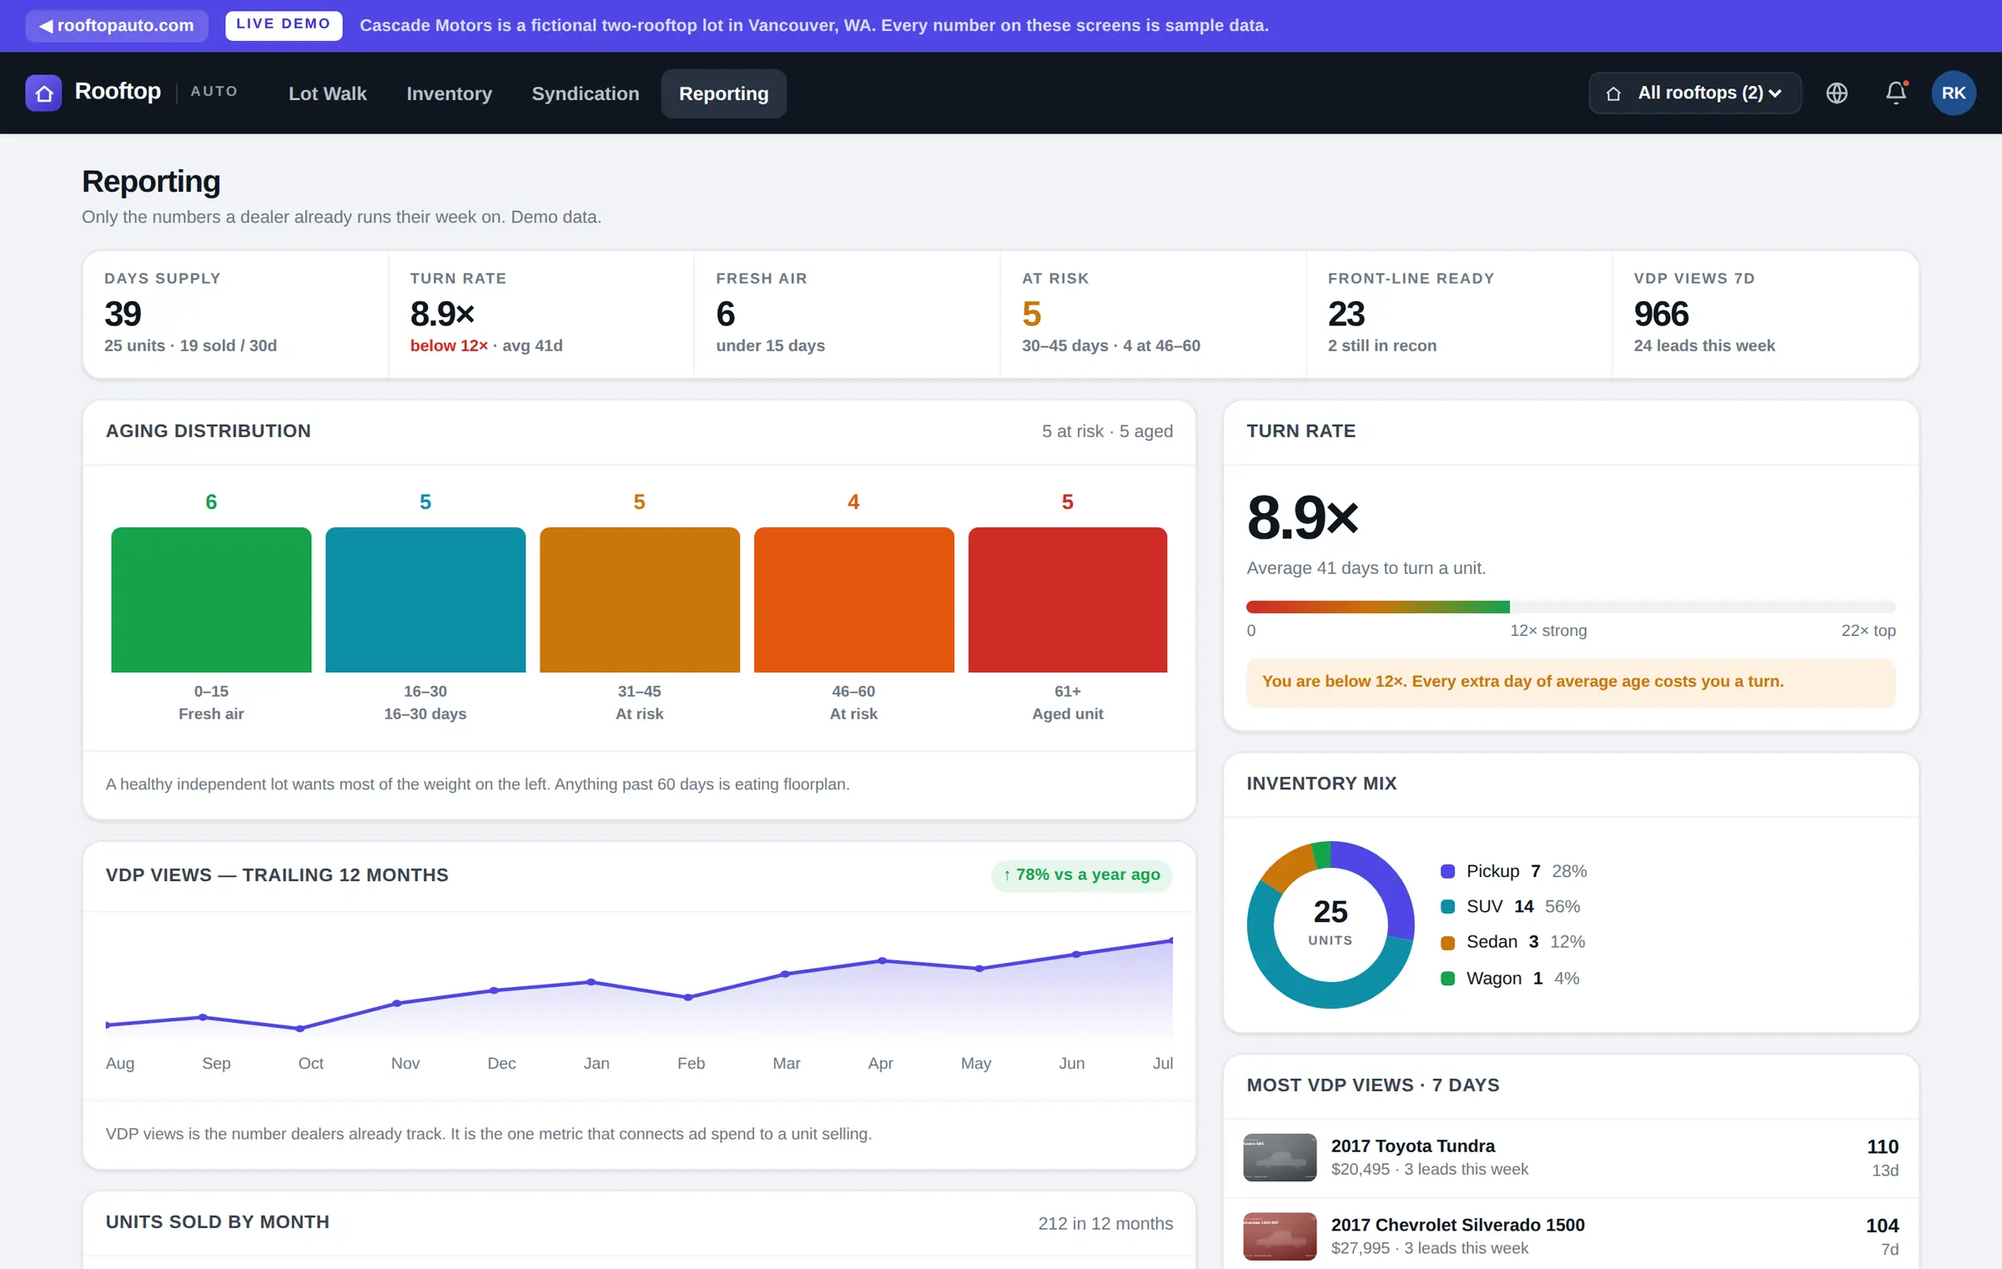
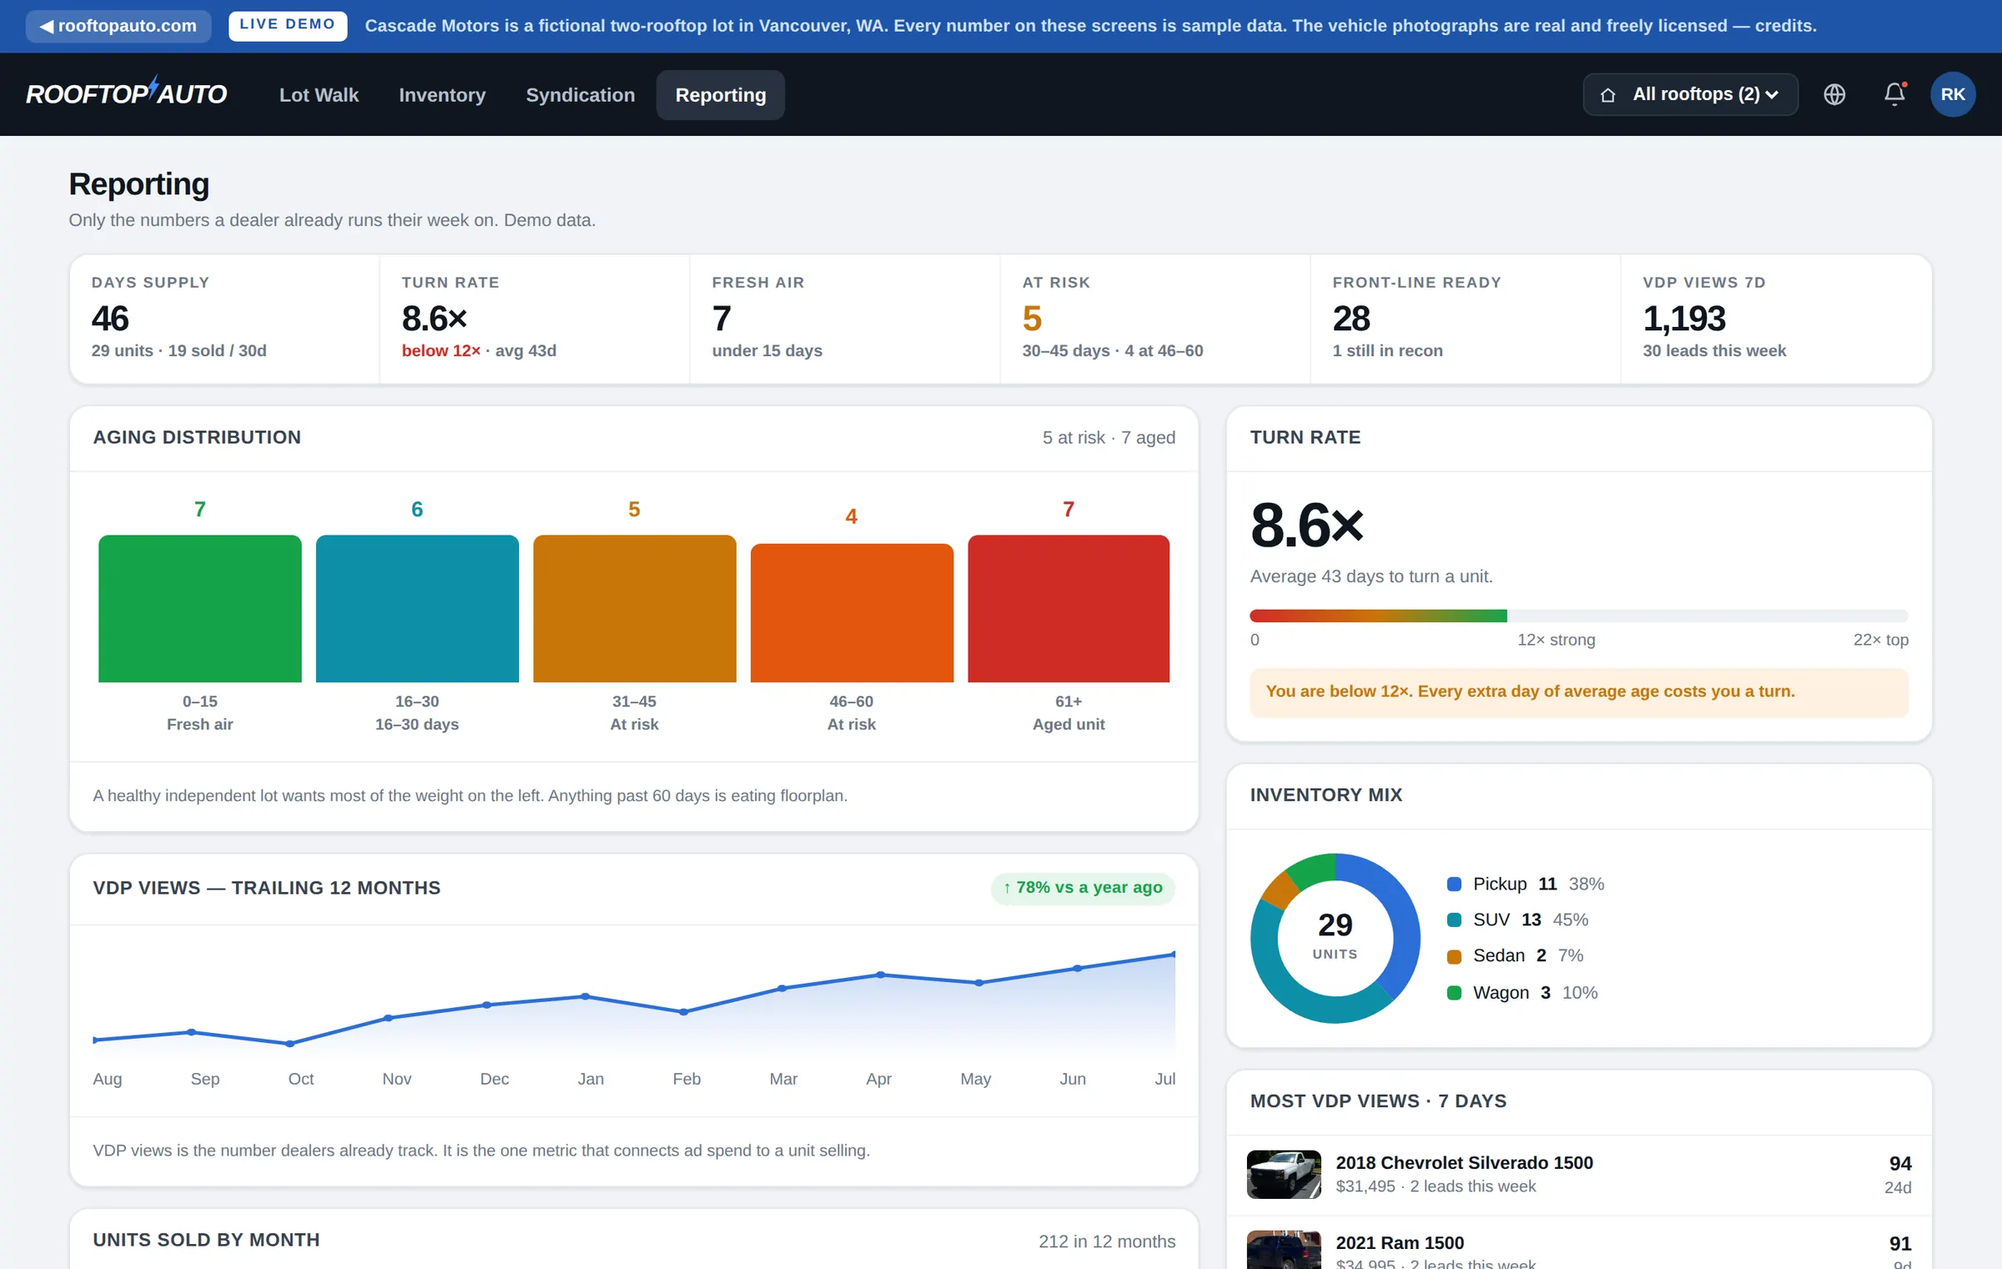
demo: rooftop blue palette, wordmark lockup, re-shot marketing screenshots

diff --git a/mock/rooftop-demo.html b/mock/rooftop-demo.html
@@ -4,6 +4,9 @@
 <meta name="viewport" content="width=device-width,initial-scale=1">
 <title>Rooftop — dealer demo · Cascade Motors</title>
 <meta name="description" content="Rooftop Auto — inventory, merchandising, syndication, website and reporting for independent used car lots.">
+<link rel="preconnect" href="https://fonts.googleapis.com">
+<link rel="preconnect" href="https://fonts.gstatic.com" crossorigin>
+<link href="https://fonts.googleapis.com/css2?family=Archivo:ital,wght@1,900&display=swap" rel="stylesheet">
 <style>/* ===== Rooftop design tokens =====
    Charcoal + indigo. Deliberately outside the aging color ramp
    (green -> cyan -> amber -> orange -> red) so brand never
@@ -12,7 +15,7 @@
   --ink:#0f1620; --ink2:#39434f; --ink3:#6d7886; --ink4:#9aa4b1;
   --line:#e3e7ec; --line2:#eef1f4;
   --bg:#f1f3f6; --card:#fff; --card2:#f8fAfc;
-  --brand:#4f46e5; --brand2:#6d64f0; --brand-dk:#3b32c9; --brand-wash:#eef0fe;
+  --brand:#2C6FD8; --brand2:#3D8BFF; --brand-dk:#1F55A8; --brand-wash:#E9F2FF;
 
   --b0:#15a34a; --b0w:#e6f6ec;   /* 0-15  fresh air   */
   --b1:#0e8fa8; --b1w:#e3f4f8;   /* 16-30             */
@@ -25,6 +28,7 @@
   --sh:0 1px 2px rgba(16,24,40,.05),0 1px 3px rgba(16,24,40,.07);
   --sh2:0 4px 16px rgba(16,24,40,.09),0 1px 3px rgba(16,24,40,.06);
   --ff:-apple-system,BlinkMacSystemFont,"Segoe UI",Inter,Roboto,Helvetica,Arial,sans-serif;
+  --fh:"Archivo",-apple-system,BlinkMacSystemFont,"Segoe UI",Inter,Roboto,Helvetica,Arial,sans-serif;
   --fm:ui-monospace,SFMono-Regular,"SF Mono",Menlo,Consolas,monospace;
 }
 *{box-sizing:border-box}
@@ -40,7 +44,9 @@ input,select,textarea{font:inherit;color:inherit}
 /* ===== chrome ===== */
 .topbar{position:sticky;top:0;z-index:60;height:58px;background:var(--ink);
   display:flex;align-items:center;gap:8px;padding:0 18px;color:#fff}
-.brand{display:flex;align-items:center;gap:9px;font-weight:800;letter-spacing:-.3px;font-size:16.5px;margin-right:14px}
+.brand{display:flex;align-items:center;font-family:var(--fh);font-style:italic;font-weight:900;letter-spacing:-.5px;font-size:18px;line-height:1;white-space:nowrap;margin-right:16px}
+.brand i{position:relative;display:inline-block;width:.363em;height:0;vertical-align:baseline;font-style:normal}
+.brand i svg{position:absolute;left:0;bottom:-.218em;width:.476em;height:1.089em;fill:#3D8BFF;overflow:visible}
 .brandmark{width:26px;height:26px;border-radius:7px;background:linear-gradient(140deg,var(--brand2),var(--brand-dk));
   display:grid;place-items:center;flex:0 0 auto}
 .brandmark svg{width:15px;height:15px}
@@ -323,12 +329,12 @@ select.sel{background:#fff;border:1px solid var(--line);border-radius:9px;paddin
 .spark{width:100%;height:78px;display:block}
 
 /* ===== demo ribbon (only present in the hosted demo build) ===== */
-.ribbon{display:flex;align-items:center;gap:12px;flex-wrap:wrap;background:#4f46e5;color:#fff;
+.ribbon{display:flex;align-items:center;gap:12px;flex-wrap:wrap;background:#1F55A8;color:#fff;
   padding:7px 18px;font-size:12px;font-weight:600;letter-spacing:.1px}
 .rb-back{font-weight:800;padding:3px 10px;border-radius:7px;background:rgba(255,255,255,.16);white-space:nowrap}
 .rb-back:hover{background:rgba(255,255,255,.28)}
-.rb-tag{font-weight:900;font-size:10px;letter-spacing:1.4px;padding:3px 8px;border-radius:5px;background:#fff;color:#3b32c9}
-.rb-txt{color:#dcdafc}
+.rb-tag{font-weight:900;font-size:10px;letter-spacing:1.4px;padding:3px 8px;border-radius:5px;background:#fff;color:#1F55A8}
+.rb-txt{color:#cfe0f7}
 @media(max-width:640px){.rb-txt{display:none}}
 
 /* ===== narrow screens =====
@@ -337,8 +343,7 @@ select.sel{background:#fff;border:1px solid var(--line);border-radius:9px;paddin
    sliding sideways, which is what the top bar was causing. */
 @media(max-width:760px){
   .topbar{height:auto;flex-wrap:wrap;padding:8px 12px;gap:7px;row-gap:4px}
-  .brand{margin-right:4px;font-size:15px}
-  .brand small{display:none}
+  .brand{margin-right:6px;font-size:15.5px}
   .nav{order:5;width:100%;overflow-x:auto;padding-bottom:2px;-webkit-overflow-scrolling:touch}
   .nav::-webkit-scrollbar{display:none}
   .nav a{white-space:nowrap;font-size:13px;padding:6px 10px}
@@ -814,7 +819,7 @@ function topbar() {
   const r = state.route;
   const on = (p) => r.startsWith(p) ? 'on' : '';
   return `<div class="topbar">
-    <div class="brand"><span class="brandmark">${MARK}</span>Rooftop<small>AUTO</small></div>
+    <div class="brand">ROOFTOP<i><svg viewBox="323.4 -54 29.5 67.5" aria-hidden="true"><path d="M349.1 -54 340.9 -29 352.9 -28.4 326 13.5 334.6 -15.5 323.4 -16.1Z"/></svg></i>AUTO</div>
     <nav class="nav">
       <a href="#/lotwalk" class="${on('#/lotwalk')}">Lot Walk</a>
       <a href="#/inventory" class="${on('#/inventory')}">Inventory</a>
@@ -1377,7 +1382,7 @@ function viewReporting() {
   const dist = BUCKETS.map(b => ({ b, n: inv.filter(v => bucketOf(v.daysInStock).id === b.id).length }));
   const maxN = Math.max(...dist.map(d => d.n), 1);
   const mix = ['Pickup', 'SUV', 'Sedan', 'Wagon'].map((k, i) => ({
-    k, n: inv.filter(v => v.body === k).length, c: ['#4f46e5', '#0e8fa8', '#c9760a', '#15a34a'][i] }));
+    k, n: inv.filter(v => v.body === k).length, c: ['#2C6FD8', '#0e8fa8', '#c9760a', '#15a34a'][i] }));
   const total = mix.reduce((a, x) => a + x.n, 0) || 1;
   const top = [...inv].sort((a, b) => b.vdpViews7 - a.vdpViews7).slice(0, 6);
   const MONTHS = ['Aug','Sep','Oct','Nov','Dec','Jan','Feb','Mar','Apr','May','Jun','Jul'];
@@ -1502,7 +1507,7 @@ function storeHeader() {
     <span>📍 Two locations in Vancouver, WA</span>
     <span>·</span><span>Fourth Plain</span><span>·</span><span>Orchards</span>
     <div style="flex:1"></div>
-    <a href="#/lotwalk" style="color:#8ea0ff;font-weight:700">← back to Rooftop admin</a>
+    <a href="#/lotwalk" style="color:#8fbcff;font-weight:700">← back to Rooftop admin</a>
   </div></div></header>`;
 }
 

diff --git a/site/demo/index.html b/site/demo/index.html
@@ -4,6 +4,9 @@
 <meta name="viewport" content="width=device-width,initial-scale=1">
 <title>Rooftop — dealer demo · Cascade Motors</title>
 <meta name="description" content="Rooftop Auto — inventory, merchandising, syndication, website and reporting for independent used car lots.">
+<link rel="preconnect" href="https://fonts.googleapis.com">
+<link rel="preconnect" href="https://fonts.gstatic.com" crossorigin>
+<link href="https://fonts.googleapis.com/css2?family=Archivo:ital,wght@1,900&display=swap" rel="stylesheet">
 <style>/* ===== Rooftop design tokens =====
    Charcoal + indigo. Deliberately outside the aging color ramp
    (green -> cyan -> amber -> orange -> red) so brand never
@@ -12,7 +15,7 @@
   --ink:#0f1620; --ink2:#39434f; --ink3:#6d7886; --ink4:#9aa4b1;
   --line:#e3e7ec; --line2:#eef1f4;
   --bg:#f1f3f6; --card:#fff; --card2:#f8fAfc;
-  --brand:#4f46e5; --brand2:#6d64f0; --brand-dk:#3b32c9; --brand-wash:#eef0fe;
+  --brand:#2C6FD8; --brand2:#3D8BFF; --brand-dk:#1F55A8; --brand-wash:#E9F2FF;
 
   --b0:#15a34a; --b0w:#e6f6ec;   /* 0-15  fresh air   */
   --b1:#0e8fa8; --b1w:#e3f4f8;   /* 16-30             */
@@ -25,6 +28,7 @@
   --sh:0 1px 2px rgba(16,24,40,.05),0 1px 3px rgba(16,24,40,.07);
   --sh2:0 4px 16px rgba(16,24,40,.09),0 1px 3px rgba(16,24,40,.06);
   --ff:-apple-system,BlinkMacSystemFont,"Segoe UI",Inter,Roboto,Helvetica,Arial,sans-serif;
+  --fh:"Archivo",-apple-system,BlinkMacSystemFont,"Segoe UI",Inter,Roboto,Helvetica,Arial,sans-serif;
   --fm:ui-monospace,SFMono-Regular,"SF Mono",Menlo,Consolas,monospace;
 }
 *{box-sizing:border-box}
@@ -40,7 +44,9 @@ input,select,textarea{font:inherit;color:inherit}
 /* ===== chrome ===== */
 .topbar{position:sticky;top:0;z-index:60;height:58px;background:var(--ink);
   display:flex;align-items:center;gap:8px;padding:0 18px;color:#fff}
-.brand{display:flex;align-items:center;gap:9px;font-weight:800;letter-spacing:-.3px;font-size:16.5px;margin-right:14px}
+.brand{display:flex;align-items:center;font-family:var(--fh);font-style:italic;font-weight:900;letter-spacing:-.5px;font-size:18px;line-height:1;white-space:nowrap;margin-right:16px}
+.brand i{position:relative;display:inline-block;width:.363em;height:0;vertical-align:baseline;font-style:normal}
+.brand i svg{position:absolute;left:0;bottom:-.218em;width:.476em;height:1.089em;fill:#3D8BFF;overflow:visible}
 .brandmark{width:26px;height:26px;border-radius:7px;background:linear-gradient(140deg,var(--brand2),var(--brand-dk));
   display:grid;place-items:center;flex:0 0 auto}
 .brandmark svg{width:15px;height:15px}
@@ -323,12 +329,12 @@ select.sel{background:#fff;border:1px solid var(--line);border-radius:9px;paddin
 .spark{width:100%;height:78px;display:block}
 
 /* ===== demo ribbon (only present in the hosted demo build) ===== */
-.ribbon{display:flex;align-items:center;gap:12px;flex-wrap:wrap;background:#4f46e5;color:#fff;
+.ribbon{display:flex;align-items:center;gap:12px;flex-wrap:wrap;background:#1F55A8;color:#fff;
   padding:7px 18px;font-size:12px;font-weight:600;letter-spacing:.1px}
 .rb-back{font-weight:800;padding:3px 10px;border-radius:7px;background:rgba(255,255,255,.16);white-space:nowrap}
 .rb-back:hover{background:rgba(255,255,255,.28)}
-.rb-tag{font-weight:900;font-size:10px;letter-spacing:1.4px;padding:3px 8px;border-radius:5px;background:#fff;color:#3b32c9}
-.rb-txt{color:#dcdafc}
+.rb-tag{font-weight:900;font-size:10px;letter-spacing:1.4px;padding:3px 8px;border-radius:5px;background:#fff;color:#1F55A8}
+.rb-txt{color:#cfe0f7}
 @media(max-width:640px){.rb-txt{display:none}}
 
 /* ===== narrow screens =====
@@ -337,8 +343,7 @@ select.sel{background:#fff;border:1px solid var(--line);border-radius:9px;paddin
    sliding sideways, which is what the top bar was causing. */
 @media(max-width:760px){
   .topbar{height:auto;flex-wrap:wrap;padding:8px 12px;gap:7px;row-gap:4px}
-  .brand{margin-right:4px;font-size:15px}
-  .brand small{display:none}
+  .brand{margin-right:6px;font-size:15.5px}
   .nav{order:5;width:100%;overflow-x:auto;padding-bottom:2px;-webkit-overflow-scrolling:touch}
   .nav::-webkit-scrollbar{display:none}
   .nav a{white-space:nowrap;font-size:13px;padding:6px 10px}
@@ -814,7 +819,7 @@ function topbar() {
   const r = state.route;
   const on = (p) => r.startsWith(p) ? 'on' : '';
   return `<div class="topbar">
-    <div class="brand"><span class="brandmark">${MARK}</span>Rooftop<small>AUTO</small></div>
+    <div class="brand">ROOFTOP<i><svg viewBox="323.4 -54 29.5 67.5" aria-hidden="true"><path d="M349.1 -54 340.9 -29 352.9 -28.4 326 13.5 334.6 -15.5 323.4 -16.1Z"/></svg></i>AUTO</div>
     <nav class="nav">
       <a href="#/lotwalk" class="${on('#/lotwalk')}">Lot Walk</a>
       <a href="#/inventory" class="${on('#/inventory')}">Inventory</a>
@@ -1377,7 +1382,7 @@ function viewReporting() {
   const dist = BUCKETS.map(b => ({ b, n: inv.filter(v => bucketOf(v.daysInStock).id === b.id).length }));
   const maxN = Math.max(...dist.map(d => d.n), 1);
   const mix = ['Pickup', 'SUV', 'Sedan', 'Wagon'].map((k, i) => ({
-    k, n: inv.filter(v => v.body === k).length, c: ['#4f46e5', '#0e8fa8', '#c9760a', '#15a34a'][i] }));
+    k, n: inv.filter(v => v.body === k).length, c: ['#2C6FD8', '#0e8fa8', '#c9760a', '#15a34a'][i] }));
   const total = mix.reduce((a, x) => a + x.n, 0) || 1;
   const top = [...inv].sort((a, b) => b.vdpViews7 - a.vdpViews7).slice(0, 6);
   const MONTHS = ['Aug','Sep','Oct','Nov','Dec','Jan','Feb','Mar','Apr','May','Jun','Jul'];
@@ -1502,7 +1507,7 @@ function storeHeader() {
     <span>📍 Two locations in Vancouver, WA</span>
     <span>·</span><span>Fourth Plain</span><span>·</span><span>Orchards</span>
     <div style="flex:1"></div>
-    <a href="#/lotwalk" style="color:#8ea0ff;font-weight:700">← back to Rooftop admin</a>
+    <a href="#/lotwalk" style="color:#8fbcff;font-weight:700">← back to Rooftop admin</a>
   </div></div></header>`;
 }
 

diff --git a/mock/src/styles.css b/mock/src/styles.css
@@ -6,7 +6,7 @@
   --ink:#0f1620; --ink2:#39434f; --ink3:#6d7886; --ink4:#9aa4b1;
   --line:#e3e7ec; --line2:#eef1f4;
   --bg:#f1f3f6; --card:#fff; --card2:#f8fAfc;
-  --brand:#4f46e5; --brand2:#6d64f0; --brand-dk:#3b32c9; --brand-wash:#eef0fe;
+  --brand:#2C6FD8; --brand2:#3D8BFF; --brand-dk:#1F55A8; --brand-wash:#E9F2FF;
 
   --b0:#15a34a; --b0w:#e6f6ec;   /* 0-15  fresh air   */
   --b1:#0e8fa8; --b1w:#e3f4f8;   /* 16-30             */
@@ -19,6 +19,7 @@
   --sh:0 1px 2px rgba(16,24,40,.05),0 1px 3px rgba(16,24,40,.07);
   --sh2:0 4px 16px rgba(16,24,40,.09),0 1px 3px rgba(16,24,40,.06);
   --ff:-apple-system,BlinkMacSystemFont,"Segoe UI",Inter,Roboto,Helvetica,Arial,sans-serif;
+  --fh:"Archivo",-apple-system,BlinkMacSystemFont,"Segoe UI",Inter,Roboto,Helvetica,Arial,sans-serif;
   --fm:ui-monospace,SFMono-Regular,"SF Mono",Menlo,Consolas,monospace;
 }
 *{box-sizing:border-box}
@@ -34,7 +35,9 @@ input,select,textarea{font:inherit;color:inherit}
 /* ===== chrome ===== */
 .topbar{position:sticky;top:0;z-index:60;height:58px;background:var(--ink);
   display:flex;align-items:center;gap:8px;padding:0 18px;color:#fff}
-.brand{display:flex;align-items:center;gap:9px;font-weight:800;letter-spacing:-.3px;font-size:16.5px;margin-right:14px}
+.brand{display:flex;align-items:center;font-family:var(--fh);font-style:italic;font-weight:900;letter-spacing:-.5px;font-size:18px;line-height:1;white-space:nowrap;margin-right:16px}
+.brand i{position:relative;display:inline-block;width:.363em;height:0;vertical-align:baseline;font-style:normal}
+.brand i svg{position:absolute;left:0;bottom:-.218em;width:.476em;height:1.089em;fill:#3D8BFF;overflow:visible}
 .brandmark{width:26px;height:26px;border-radius:7px;background:linear-gradient(140deg,var(--brand2),var(--brand-dk));
   display:grid;place-items:center;flex:0 0 auto}
 .brandmark svg{width:15px;height:15px}
@@ -317,12 +320,12 @@ select.sel{background:#fff;border:1px solid var(--line);border-radius:9px;paddin
 .spark{width:100%;height:78px;display:block}
 
 /* ===== demo ribbon (only present in the hosted demo build) ===== */
-.ribbon{display:flex;align-items:center;gap:12px;flex-wrap:wrap;background:#4f46e5;color:#fff;
+.ribbon{display:flex;align-items:center;gap:12px;flex-wrap:wrap;background:#1F55A8;color:#fff;
   padding:7px 18px;font-size:12px;font-weight:600;letter-spacing:.1px}
 .rb-back{font-weight:800;padding:3px 10px;border-radius:7px;background:rgba(255,255,255,.16);white-space:nowrap}
 .rb-back:hover{background:rgba(255,255,255,.28)}
-.rb-tag{font-weight:900;font-size:10px;letter-spacing:1.4px;padding:3px 8px;border-radius:5px;background:#fff;color:#3b32c9}
-.rb-txt{color:#dcdafc}
+.rb-tag{font-weight:900;font-size:10px;letter-spacing:1.4px;padding:3px 8px;border-radius:5px;background:#fff;color:#1F55A8}
+.rb-txt{color:#cfe0f7}
 @media(max-width:640px){.rb-txt{display:none}}
 
 /* ===== narrow screens =====
@@ -331,8 +334,7 @@ select.sel{background:#fff;border:1px solid var(--line);border-radius:9px;paddin
    sliding sideways, which is what the top bar was causing. */
 @media(max-width:760px){
   .topbar{height:auto;flex-wrap:wrap;padding:8px 12px;gap:7px;row-gap:4px}
-  .brand{margin-right:4px;font-size:15px}
-  .brand small{display:none}
+  .brand{margin-right:6px;font-size:15.5px}
   .nav{order:5;width:100%;overflow-x:auto;padding-bottom:2px;-webkit-overflow-scrolling:touch}
   .nav::-webkit-scrollbar{display:none}
   .nav a{white-space:nowrap;font-size:13px;padding:6px 10px}

diff --git a/mock/src/app.js b/mock/src/app.js
@@ -21,7 +21,7 @@ function topbar() {
   const r = state.route;
   const on = (p) => r.startsWith(p) ? 'on' : '';
   return `<div class="topbar">
-    <div class="brand"><span class="brandmark">${MARK}</span>Rooftop<small>AUTO</small></div>
+    <div class="brand">ROOFTOP<i><svg viewBox="323.4 -54 29.5 67.5" aria-hidden="true"><path d="M349.1 -54 340.9 -29 352.9 -28.4 326 13.5 334.6 -15.5 323.4 -16.1Z"/></svg></i>AUTO</div>
     <nav class="nav">
       <a href="#/lotwalk" class="${on('#/lotwalk')}">Lot Walk</a>
       <a href="#/inventory" class="${on('#/inventory')}">Inventory</a>
@@ -584,7 +584,7 @@ function viewReporting() {
   const dist = BUCKETS.map(b => ({ b, n: inv.filter(v => bucketOf(v.daysInStock).id === b.id).length }));
   const maxN = Math.max(...dist.map(d => d.n), 1);
   const mix = ['Pickup', 'SUV', 'Sedan', 'Wagon'].map((k, i) => ({
-    k, n: inv.filter(v => v.body === k).length, c: ['#4f46e5', '#0e8fa8', '#c9760a', '#15a34a'][i] }));
+    k, n: inv.filter(v => v.body === k).length, c: ['#2C6FD8', '#0e8fa8', '#c9760a', '#15a34a'][i] }));
   const total = mix.reduce((a, x) => a + x.n, 0) || 1;
   const top = [...inv].sort((a, b) => b.vdpViews7 - a.vdpViews7).slice(0, 6);
   const MONTHS = ['Aug','Sep','Oct','Nov','Dec','Jan','Feb','Mar','Apr','May','Jun','Jul'];
@@ -709,7 +709,7 @@ function storeHeader() {
     <span>📍 Two locations in Vancouver, WA</span>
     <span>·</span><span>Fourth Plain</span><span>·</span><span>Orchards</span>
     <div style="flex:1"></div>
-    <a href="#/lotwalk" style="color:#8ea0ff;font-weight:700">← back to Rooftop admin</a>
+    <a href="#/lotwalk" style="color:#8fbcff;font-weight:700">← back to Rooftop admin</a>
   </div></div></header>`;
 }
 

diff --git a/site/index.html b/site/index.html
@@ -585,7 +585,7 @@ fill="#3D8BFF" stroke="none">
     <div class="ftext">
       <div class="eyebrow">Inventory &amp; aging</div>
       <h3>Aging you can read from across the room.</h3>
-      <p>Every unit sits in a bucket and every bucket has a colour. You know in one glance how
+      <p>Every unit sits in a bucket and every bucket has a color. You know in one glance how
         much of your money is on the wrong side of sixty days.</p>
 
       <div class="aging">
@@ -605,7 +605,7 @@ fill="#3D8BFF" stroke="none">
     </div>
     <div class="fimg"><picture>
       <source srcset="img/shot-inventory.webp" type="image/webp">
-      <img src="img/shot-inventory.jpg" width="1400" height="887" alt="The Rooftop Auto inventory list with colour-coded aging buckets, cost, gross and per-channel status.">
+      <img src="img/shot-inventory.jpg" width="1400" height="887" alt="The Rooftop Auto inventory list with color-coded aging buckets, cost, gross and per-channel status.">
     </picture></div>
   </div>
 

diff --git a/mock/build.js b/mock/build.js
@@ -8,6 +8,9 @@ const html = `<!doctype html>
 <meta name="viewport" content="width=device-width,initial-scale=1">
 <title>Rooftop — dealer demo · Cascade Motors</title>
 <meta name="description" content="Rooftop Auto — inventory, merchandising, syndication, website and reporting for independent used car lots.">
+<link rel="preconnect" href="https://fonts.googleapis.com">
+<link rel="preconnect" href="https://fonts.gstatic.com" crossorigin>
+<link href="https://fonts.googleapis.com/css2?family=Archivo:ital,wght@1,900&display=swap" rel="stylesheet">
 <style>${p('src/styles.css')}</style>
 </head><body>
 <script>
